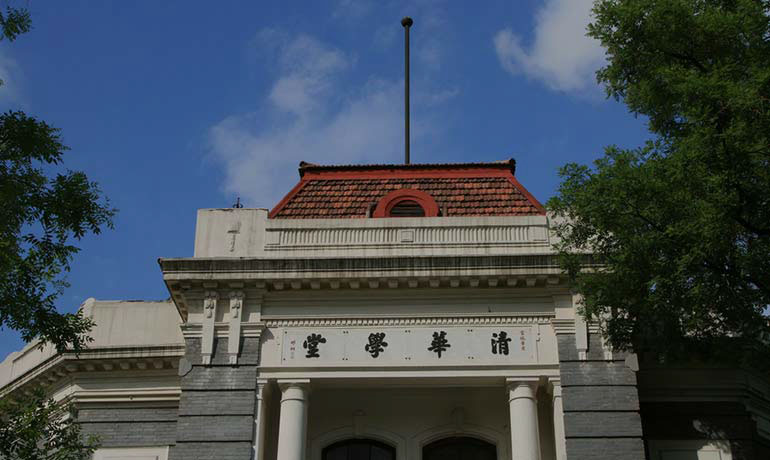
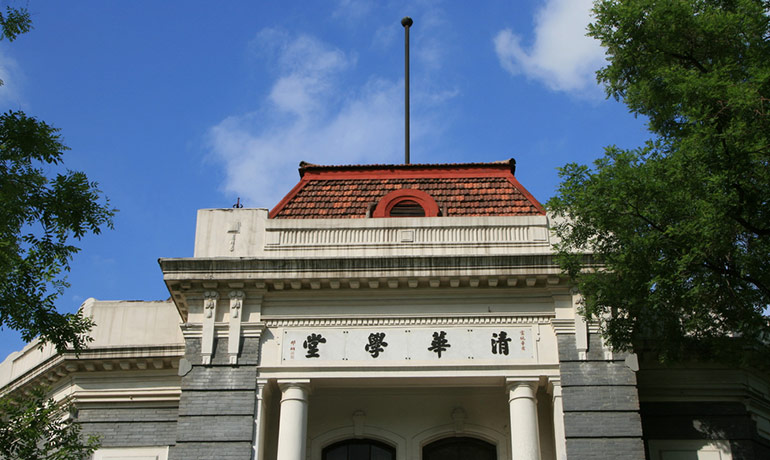
use raw img for about page

diff --git a/app/styles/about.scss b/app/styles/about.scss
@@ -11,6 +11,16 @@
   background-position: 50% 75%;
   text-align: center;
 
+  &::before{
+    content: "";
+    background-color: rgba(0,0,0,0.2);
+    position: absolute;
+    left:0;
+    right:0;
+    top:0;
+    bottom: 0;
+  }
+
   .frame-rg {
     position: absolute;
     bottom: 10%;

diff --git a/app/styles/common.scss b/app/styles/common.scss
@@ -31,9 +31,9 @@ body {
 #navbar-brand {
   vertical-align: middle;
 
-  padding-top: 5px;
+  padding-top: $navbar-height / 10;
 
-  line-height: 35px;
+  line-height: $navbar-height / 10 * 7;
 
   img {
     height: 110%;
